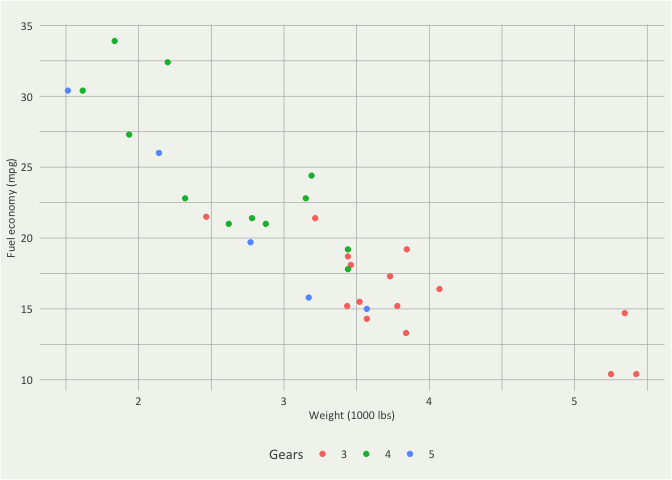
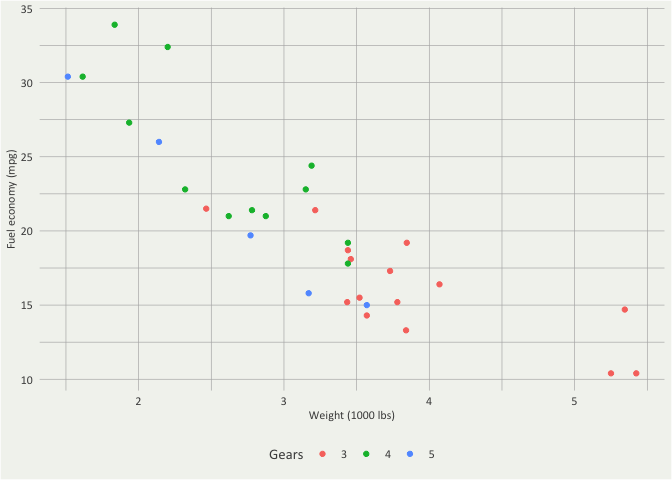
add publish theme

diff --git a/README.md b/README.md
@@ -32,7 +32,6 @@ mtcars$gear <- as.factor(mtcars$gear)
 p1 <- ggplot(mtcars) +
 geom_point(aes(x = wt, y = mpg, colour = gear)) +
 labs(
-title = "",
   x = "Weight (1000 lbs)",
   y = "Fuel economy (mpg)",
   colour = "Gears"
@@ -62,3 +61,13 @@ Finally, use dezim_colors for functions that require color/fill
 ```
 
 <img src="man/figures/README-unnamed-chunk-3-1.png" width="100%" />
+
+The package also include the function `theme_publish()` to format
+figures for scientific publications.
+
+``` r
+ p1 +
+ theme_publish() 
+```
+
+<img src="man/figures/README-unnamed-chunk-4-1.png" width="100%" />
